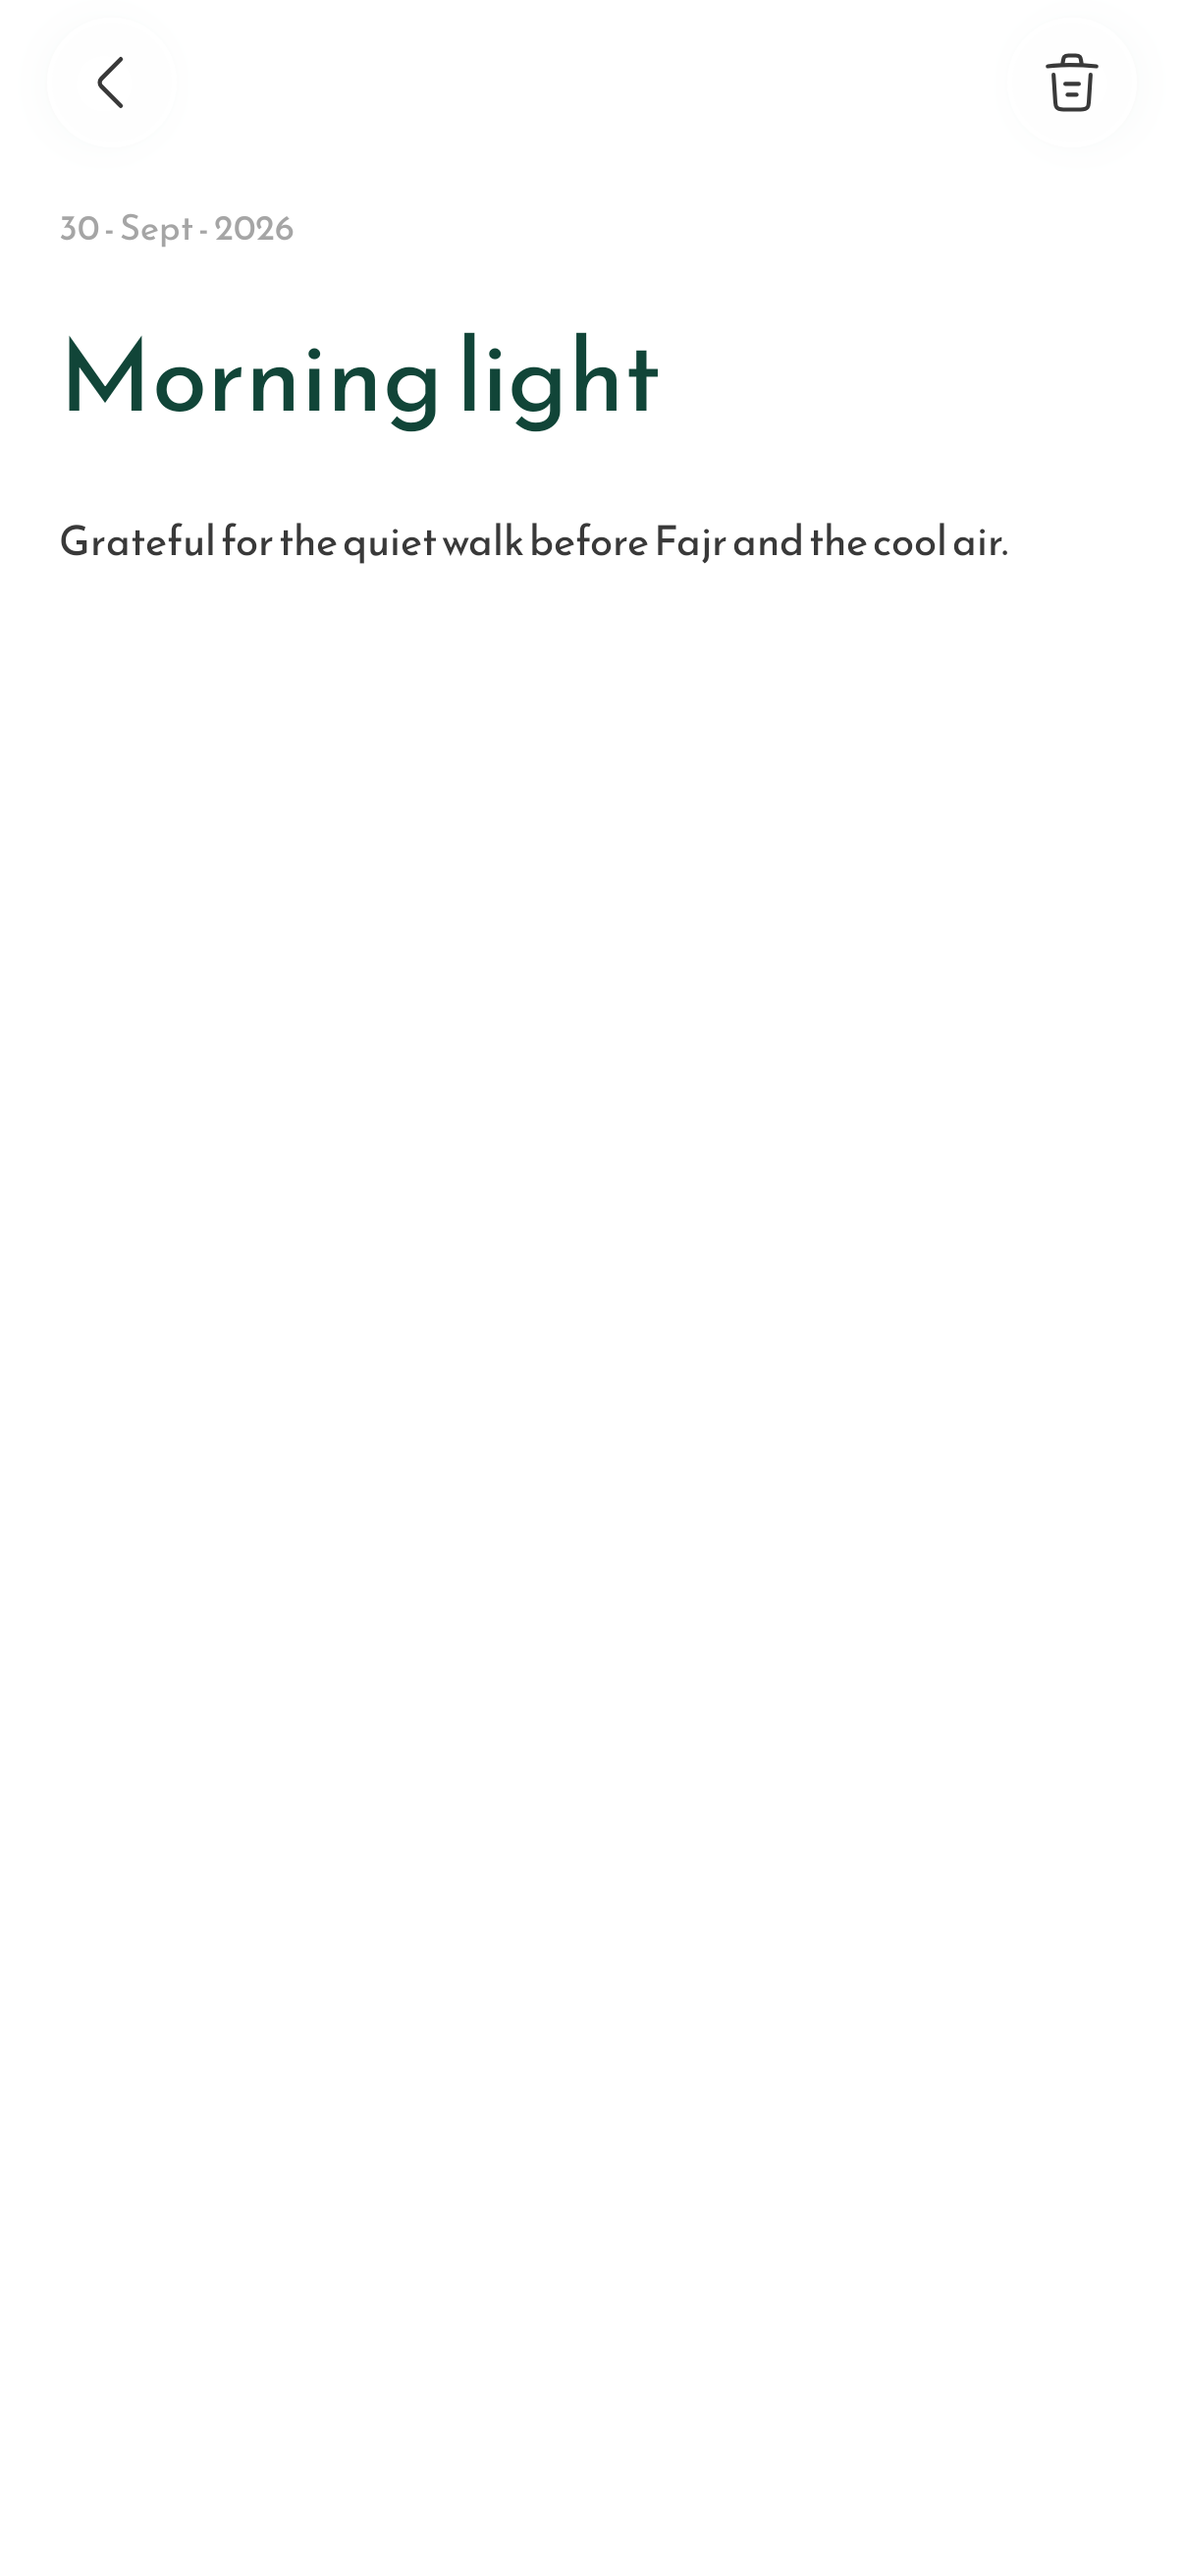
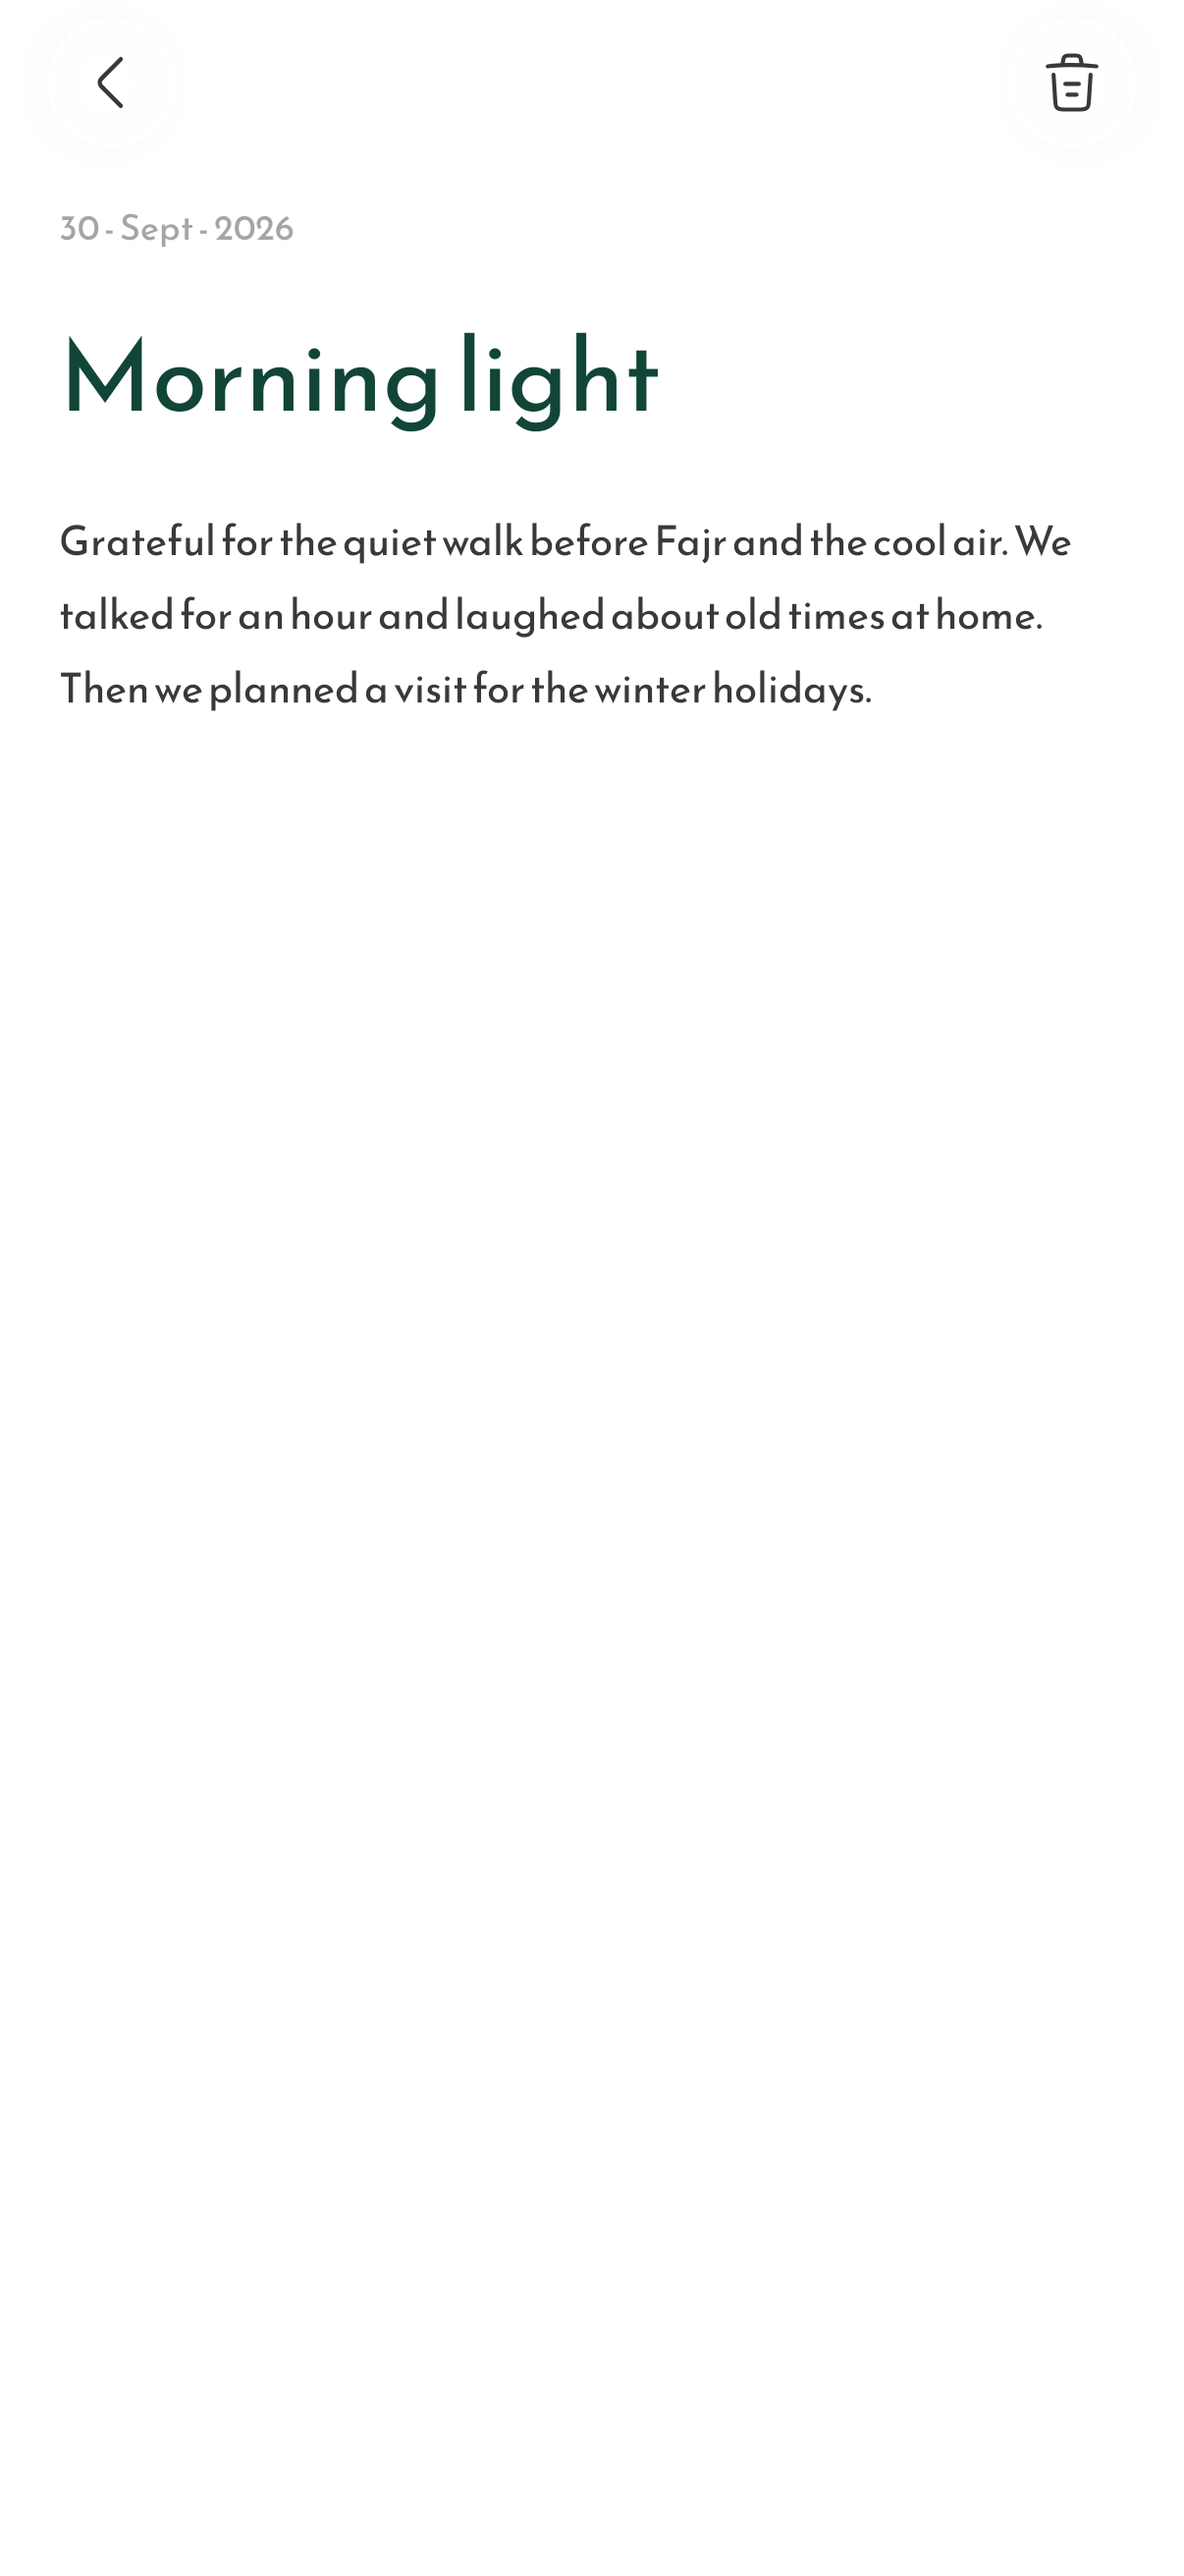
fix(journal): Android editor body spaced as on iOS; Urdu list screenshot
The body's lines are Reem Kufi's own height plus the 4 points of lineSpacing
the iOS field sets, with the spacing under each line but the last, as the
design system's text does. The entry screenshot now wraps so the spacing shows,
and a new Urdu screenshot checks the verse against iOS.

Changed region(s): [[0.0614, 0.2162, 0.859, 0.278], [0.859, 0.1854, 0.8897, 0.2162]]

diff --git a/androidApp/src/test/kotlin/com/muttaqi/android/feature/journal/JournalScreenshotTest.kt b/androidApp/src/test/kotlin/com/muttaqi/android/feature/journal/JournalScreenshotTest.kt
@@ -4,7 +4,10 @@ import android.app.Application
 import androidx.compose.ui.test.junit4.createComposeRule
 import com.muttaqi.android.testing.PHONE
 import com.muttaqi.android.testing.captureLightAndDark
+import com.muttaqi.shared.core.model.Language
 import com.muttaqi.shared.core.quote.DisplayedQuote
+import com.muttaqi.shared.core.quote.PageQuotes
+import com.muttaqi.shared.core.quote.displayed
 import com.muttaqi.shared.feature.journal.domain.model.JournalEntry
 import com.muttaqi.shared.feature.journal.presentation.entry.JournalEntryState
 import com.muttaqi.shared.feature.journal.presentation.list.JournalListState
@@ -43,6 +46,15 @@ class JournalScreenshotTest {
     }
 
     @Test
+    fun listUrdu() = compose.captureLightAndDark("journal_list_urdu") {
+        JournalListScreen(
+            JournalListState(isLoading = false, header = PageQuotes.byThePen.displayed(Language.Urdu), entries = listOf(walk)),
+            onIntent = {},
+            onBack = {},
+        )
+    }
+
+    @Test
     fun listEmpty() = compose.captureLightAndDark("journal_list_empty") {
         JournalListScreen(JournalListState(isLoading = false, header = quote), onIntent = {}, onBack = {})
     }
@@ -58,7 +70,9 @@ class JournalScreenshotTest {
 
     @Test
     fun entry() = compose.captureLightAndDark("journal_entry") {
-        JournalEntryScreen(JournalEntryState(entry = walk), onIntent = {}, onBack = {})
+        // Long enough to wrap, so the body's line spacing shows
+        val body = walk.body + " We talked for an hour and laughed about old times at home. Then we planned a visit for the winter holidays."
+        JournalEntryScreen(JournalEntryState(entry = walk.copy(body = body)), onIntent = {}, onBack = {})
     }
 
     @Test

diff --git a/androidApp/src/main/kotlin/com/muttaqi/android/feature/journal/JournalEntryScreen.kt b/androidApp/src/main/kotlin/com/muttaqi/android/feature/journal/JournalEntryScreen.kt
@@ -39,6 +39,7 @@ import androidx.compose.ui.platform.LocalFocusManager
 import androidx.compose.ui.text.TextStyle
 import androidx.compose.ui.text.input.ImeAction
 import androidx.compose.ui.text.input.KeyboardCapitalization
+import androidx.compose.ui.text.style.LineHeightStyle
 import androidx.compose.ui.unit.dp
 import androidx.compose.ui.unit.sp
 import androidx.lifecycle.Lifecycle
@@ -116,7 +117,13 @@ fun JournalEntryScreen(state: JournalEntryState, onIntent: (JournalEntryIntent) 
             // An existing entry is read from the database first, which takes a moment; a new one is ready at once
             if (entry != null) {
                 val titleStyle = MaterialTheme.typography.headlineMedium.copy(fontSize = 34.sp, color = soft.appPrimary)
-                val bodyStyle = MaterialTheme.typography.bodyMedium.copy(fontSize = 14.sp, lineHeight = 25.sp, color = soft.textPrimary)
+                // As on iOS: Reem Kufi's own line height (1.5 em) plus the field's lineSpacing(4), under each line but the last
+                val bodyStyle = MaterialTheme.typography.bodyMedium.copy(
+                    fontSize = 14.sp,
+                    lineHeight = (14 * 1.5f + 4).sp,
+                    lineHeightStyle = LineHeightStyle(LineHeightStyle.Alignment.Top, LineHeightStyle.Trim.Both),
+                    color = soft.textPrimary,
+                )
                 Column(
                     Modifier
                         .fillMaxSize()
